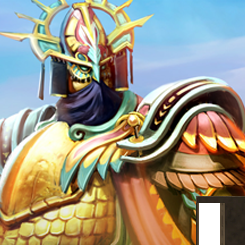
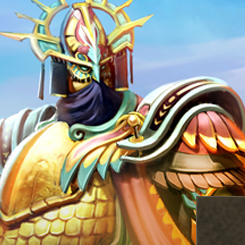
Fix bug with backtracking, fix reference images

Changed region(s): [[0.8, 0.8, 0.9429, 1.0], [0.9714, 0.9143, 1.0, 0.9429]]

diff --git a/src/trainer/ui/neosolving/cluereader/SliderReader.ts b/src/trainer/ui/neosolving/cluereader/SliderReader.ts
@@ -170,7 +170,9 @@ export namespace SlideReader {
       })
     }
 
-    const DO_BACKTRACKING_IMPROVEMENT = deps().app.settings.settings.solving.puzzles.sliders.improve_slider_matches_backtracking && greedy_best.preliminary_best_matching.score > DETECTION_THRESHOLD_SCORE
+    const DO_BACKTRACKING_IMPROVEMENT =
+      deps().app.settings.settings.solving.puzzles.sliders.improve_slider_matches_backtracking
+      && greedy_best.preliminary_best_matching.score > DETECTION_THRESHOLD_SCORE
 
     if (DO_BACKTRACKING_IMPROVEMENT) {
       let best: (typeof tile_scores)[number][] = greedy_best.preliminary_best_matching.match
@@ -184,8 +186,6 @@ export namespace SlideReader {
       for (let i = 23; i >= 0; i--) {
         max_improvements[i] += max_improvements[i + 1]
       }
-
-      const better_match_max_exist = max_improvements[0] > best_score
 
       const reference_used = new Array(25).fill(false)
 
@@ -206,14 +206,19 @@ export namespace SlideReader {
             continue
           }
 
-          tiles[i] = match
+          working_tiles[i] = match
           reference_used[match.reference_tile.position] = true
           backtracking(i + 1, similarity_so_far + match.score)
           reference_used[match.reference_tile.position] = false
         }
       }
 
+      if(DEBUG_SLIDE_READER) console.log(`Potential ${max_improvements[0]} vs. ${best_score}`)
+
+      const better_match_max_exist = max_improvements[0] > best_score
       if (better_match_max_exist) backtracking(0, 0)
+
+      if(DEBUG_SLIDE_READER) console.log(`Before BT: ${greedy_best.preliminary_best_matching.score}, After BT: ${best_score / 25}`)
 
       return {
         tiles: best.map(m => m.reference_tile),

diff --git a/src/test/test_slide_reader.ts b/src/test/test_slide_reader.ts
@@ -30,6 +30,7 @@ export async function test_slide_reader(): Promise<boolean> {
     },
     {file: "test_assets/sliders/castle_solved.png", expected: {theme: "castle", state: SliderState.SOLVED}},
     {file: "test_assets/sliders/tree_solved.png", expected: {theme: "tree", state: SliderState.SOLVED}},
+    {file: "test_assets/sliders/pharaoh_solved.png", expected: {theme: "menaphos_pharaoh", state: SliderState.SOLVED}},
     {file: "test_assets/sliders/troll_solved.png", expected: {theme: "troll", state: SliderState.SOLVED}},
     {
       file: "test_assets/sliders/bridge_swapped.png", expected: {
@@ -51,6 +52,7 @@ export async function test_slide_reader(): Promise<boolean> {
     const res = await time("reading", async () =>
       await SlideReader.read(img,
         {x: 0, y: 0},
+        test_case.expected.theme
       )
     )
 

diff --git a/src/trainer/main.ts b/src/trainer/main.ts
@@ -13,6 +13,7 @@ import span = C.span;
 import skillbertRandom = Sliders.SlideSolver.skillbertRandom;
 import spacer = C.spacer;
 import hbox = C.hbox;
+import {test_slide_reader} from "../test/test_slide_reader";
 
 class SliderBenchmarkModal extends NisModal {
   layout: Properties
@@ -327,10 +328,8 @@ class SliderAnalysisModal extends NisModal {
   }
 }
 
-
 export async function makeshift_main(): Promise<void> {
-
-  //await test_slide_reader()
+  // await test_slide_reader()
 
   //await new SliderAnalysisModal().show()
 
